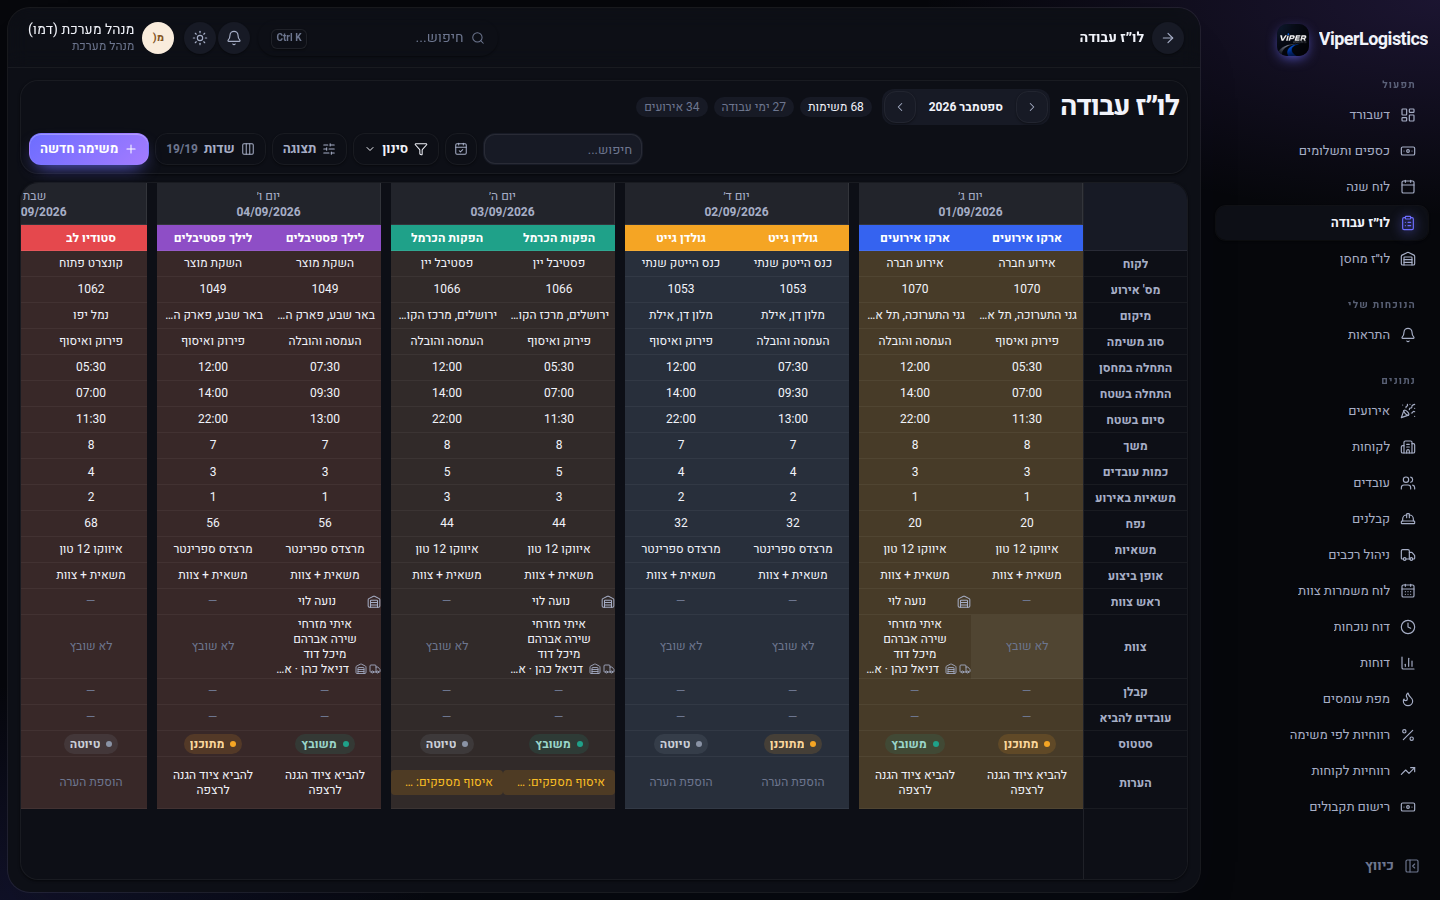
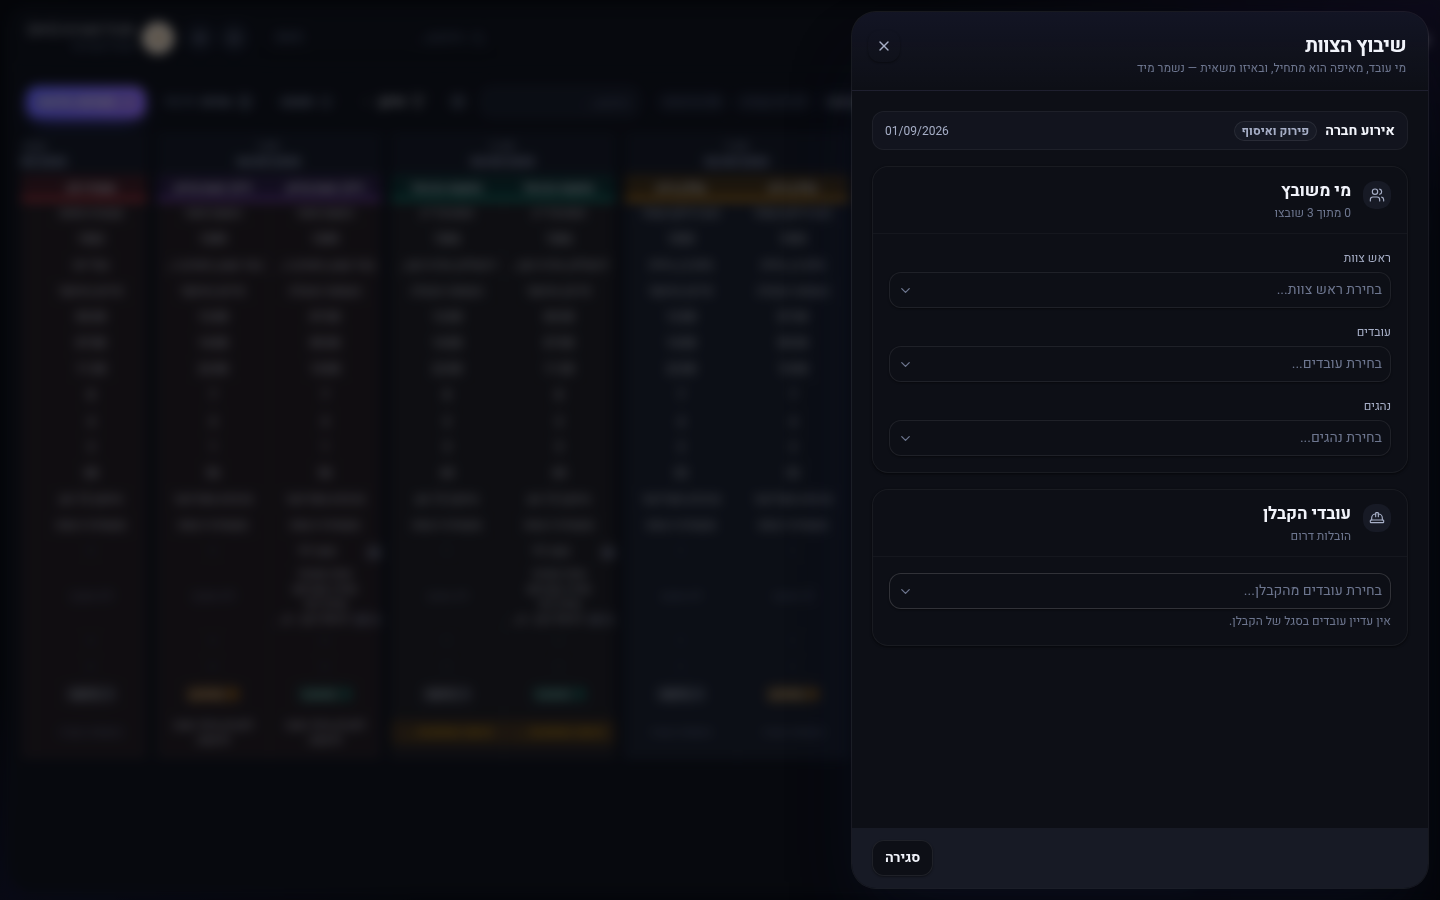
Design preview: NOVA polish (board, drawers, mobile)
Claude-Session: https://claude.ai/code/session_016hL1RcEcATmVyT9yHk3dys

diff --git a/design-preview/variants/nova.css b/design-preview/variants/nova.css
@@ -146,3 +146,44 @@ main [class*='rounded-'][class*='border']:not(.rounded-full) { border-color: var
 .surface.min-h-0.flex-1 { border-radius: 18px; }
 .sticky.top-0.z-20 { backdrop-filter: blur(12px); background: color-mix(in srgb, var(--vl-surface) 88%, transparent) !important; }
 .border-b.border-line-subtle { border-bottom-color: color-mix(in srgb, var(--vl-border-subtle) 70%, transparent); }
+
+/* ══════════ סבב 2 — העמקה ══════════ */
+
+/* סרגל צד: דהייה בתחתית הגלילה במקום חיתוך גס */
+aside nav { -webkit-mask-image: linear-gradient(180deg, #000 calc(100% - 28px), transparent); mask-image: linear-gradient(180deg, #000 calc(100% - 28px), transparent); }
+
+/* ── לו״ז עבודה: כותרות לקוח כפסים פסטליים עם פס צבע תחתון ── */
+.sticky.top-0.z-20 .group.relative.flex.h-full { color: var(--vl-text) !important; border-bottom: 0 !important; overflow: hidden; }
+.sticky.top-0.z-20 .group.relative.flex.h-full::before { content: ''; position: absolute; inset: 0; background: var(--vl-surface); opacity: 0.86; pointer-events: none; }
+.sticky.top-0.z-20 .group.relative.flex.h-full::after { content: ''; position: absolute; inset-inline: 0; bottom: 0; height: 3px; background: inherit; }
+.sticky.top-0.z-20 .group.relative.flex.h-full > * { position: relative; z-index: 1; }
+.sticky.top-0.z-20 .group.relative.flex.h-full button { font-size: 0.75rem; font-weight: 800; letter-spacing: -0.01em; }
+/* כותרת יום */
+.sticky.top-0.z-20 .absolute.top-0.flex.flex-col { background: color-mix(in srgb, var(--vl-subtle) 80%, var(--vl-surface)) !important; border-color: var(--vl-border-subtle) !important; }
+.sticky.top-0.z-20 .absolute.top-0.flex.flex-col span { font-size: 0.75rem; }
+/* עמודת התוויות */
+.surface.min-h-0.flex-1 .h-full.overflow-auto > .relative > .relative.flex > .sticky:first-child,
+.surface.min-h-0.flex-1 [class*='sticky'][class*='end-0'], .surface.min-h-0.flex-1 [class*='sticky'][class*='start-0'] { background: var(--vl-surface); }
+/* שורת הכלים */
+main .surface.flex.flex-wrap { background: transparent; box-shadow: none; border: 0; padding: 4px 6px; }
+main h1.type-title { font-size: 1.5rem; letter-spacing: -0.035em; font-weight: 800; }
+/* שורות: הפרדה עדינה, ריחוף מודגש */
+.h-full.overflow-auto .border-b.border-line-subtle:hover { background: color-mix(in srgb, var(--nova-a) 7%, transparent); }
+.h-full.overflow-auto .border-b.border-line-subtle { border-bottom-style: solid; border-bottom-color: color-mix(in srgb, var(--vl-border-subtle) 60%, transparent); }
+/* עמודות של יום: מפריד רך בין ימים */
+.h-full.overflow-auto .absolute.top-0.bg-surface { box-shadow: inset 1px 0 0 var(--vl-border-subtle); }
+.sticky.top-0.z-20 .group.relative.flex.h-full, .sticky.top-0.z-20 .group.relative.flex.h-full * { color: var(--vl-text) !important; }
+.sticky.top-0.z-20 .group.relative.flex.h-full::before { opacity: 0.78; }
+
+/* ── מגירות (פאנל שיבוץ וכו'): כרטיס צף עם מרווח ── */
+[role='dialog'].absolute.inset-y-0 { inset-block: 12px !important; inset-inline-start: 12px !important; height: auto; border-radius: 24px !important;
+  box-shadow: 0 0 0 1px var(--vl-border), 0 40px 80px -20px rgb(16 20 46 / 0.45) !important; overflow: hidden; }
+[role='dialog'].absolute.inset-y-0 > div:first-child { padding: 22px 22px 14px; border-bottom: 1px solid var(--vl-border-subtle) !important; background: linear-gradient(180deg, color-mix(in srgb, var(--nova-a) 6%, transparent), transparent); }
+[role='dialog'].absolute.inset-y-0 > div:first-child h2 { font-size: 1.25rem; font-weight: 800; letter-spacing: -0.03em; }
+[role='dialog'].absolute.inset-y-0 .surface { border-radius: 16px; }
+
+@media (max-width: 1023px) {
+  aside + div, #root div.min-w-0.flex-1 { margin: 0 !important; border-radius: 0 !important; box-shadow: none !important; }
+  header { border-radius: 0; }
+}
+.sticky.top-0.z-20 .group.relative.flex.h-full button { position: relative; z-index: 1; }

diff --git a/design-preview/README.md b/design-preview/README.md
@@ -7,5 +7,7 @@
     node design-preview/shoot.mjs baseline   # המצב הנוכחי
     node design-preview/shoot.mjs soft       # וריאנט A
     node design-preview/shoot.mjs pro        # וריאנט B
+    node design-preview/shoot.mjs nova       # וריאנט C (NOVA) — הנבחר
+    MOBILE=1 node design-preview/shoot.mjs nova   # מובייל
 
 צילומים ב-`shots/<variant>/`. וריאנטים ב-`variants/*.css`.
